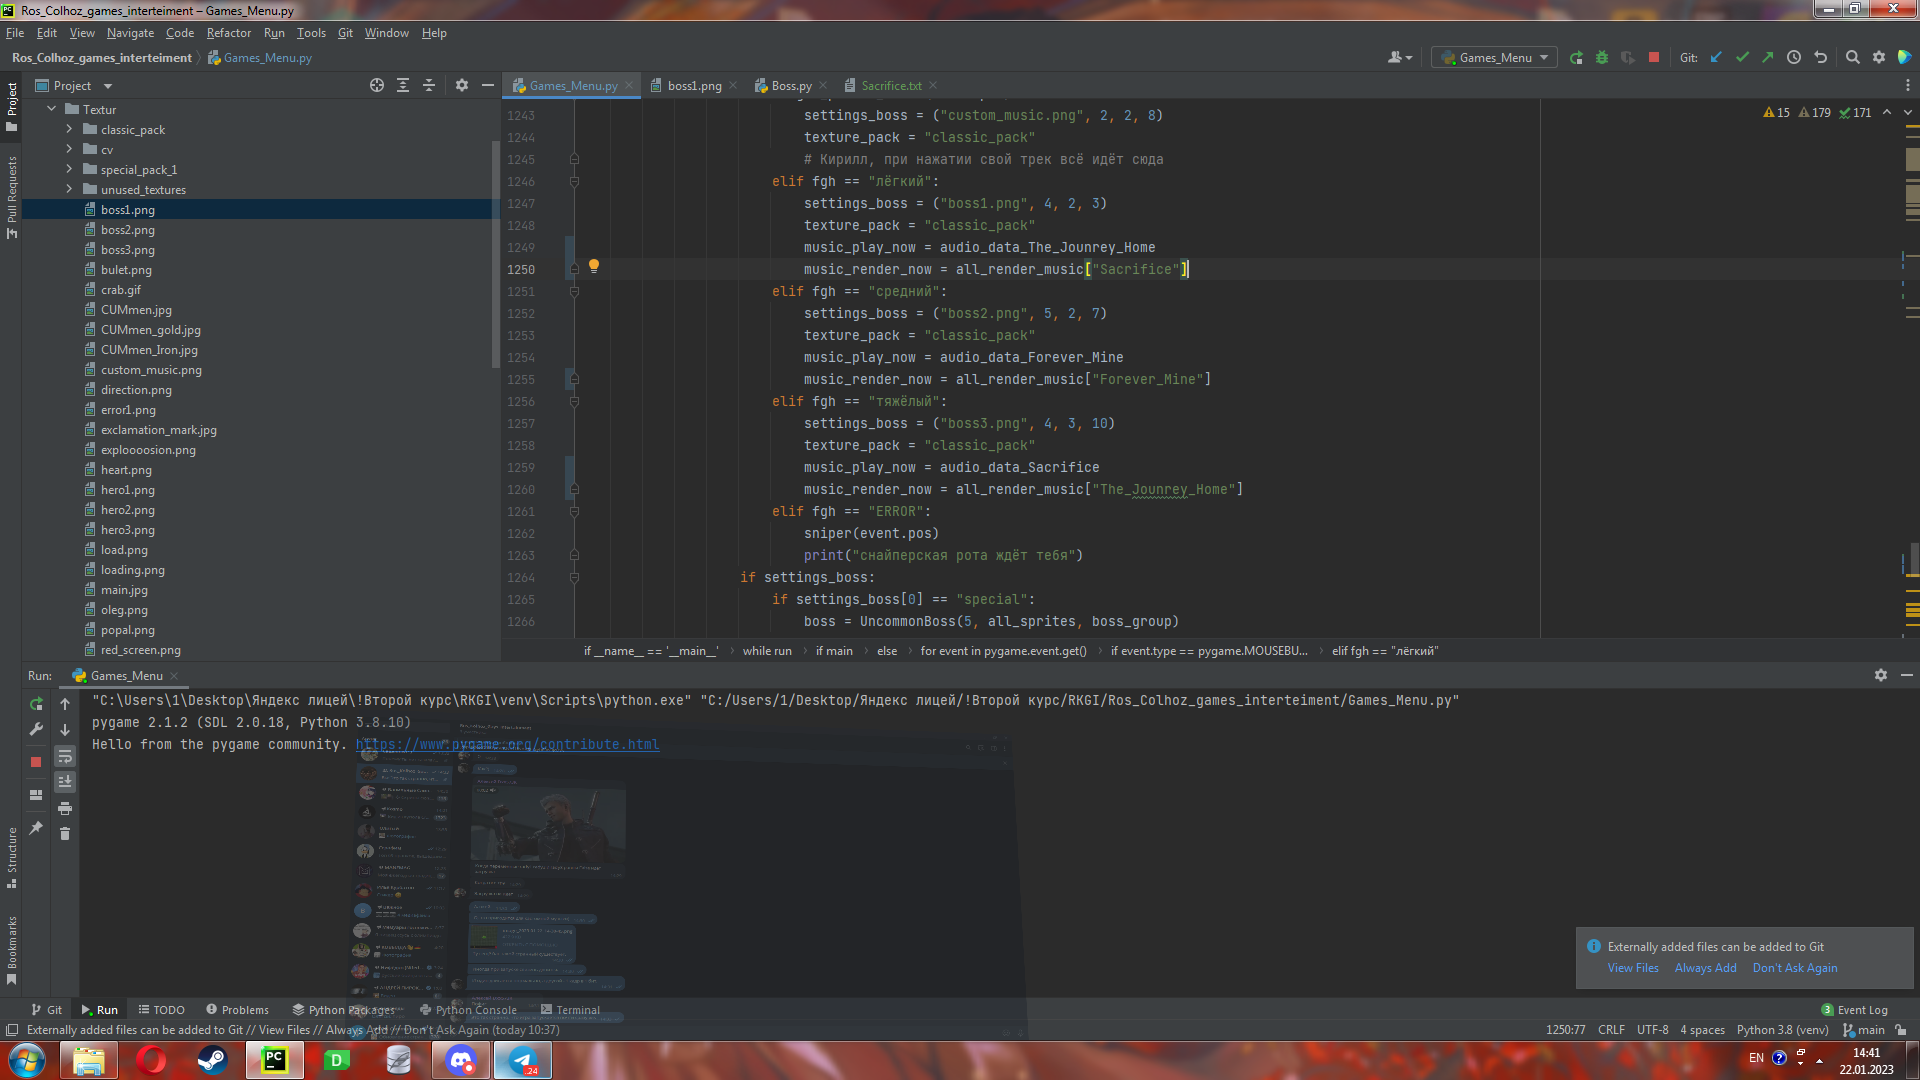
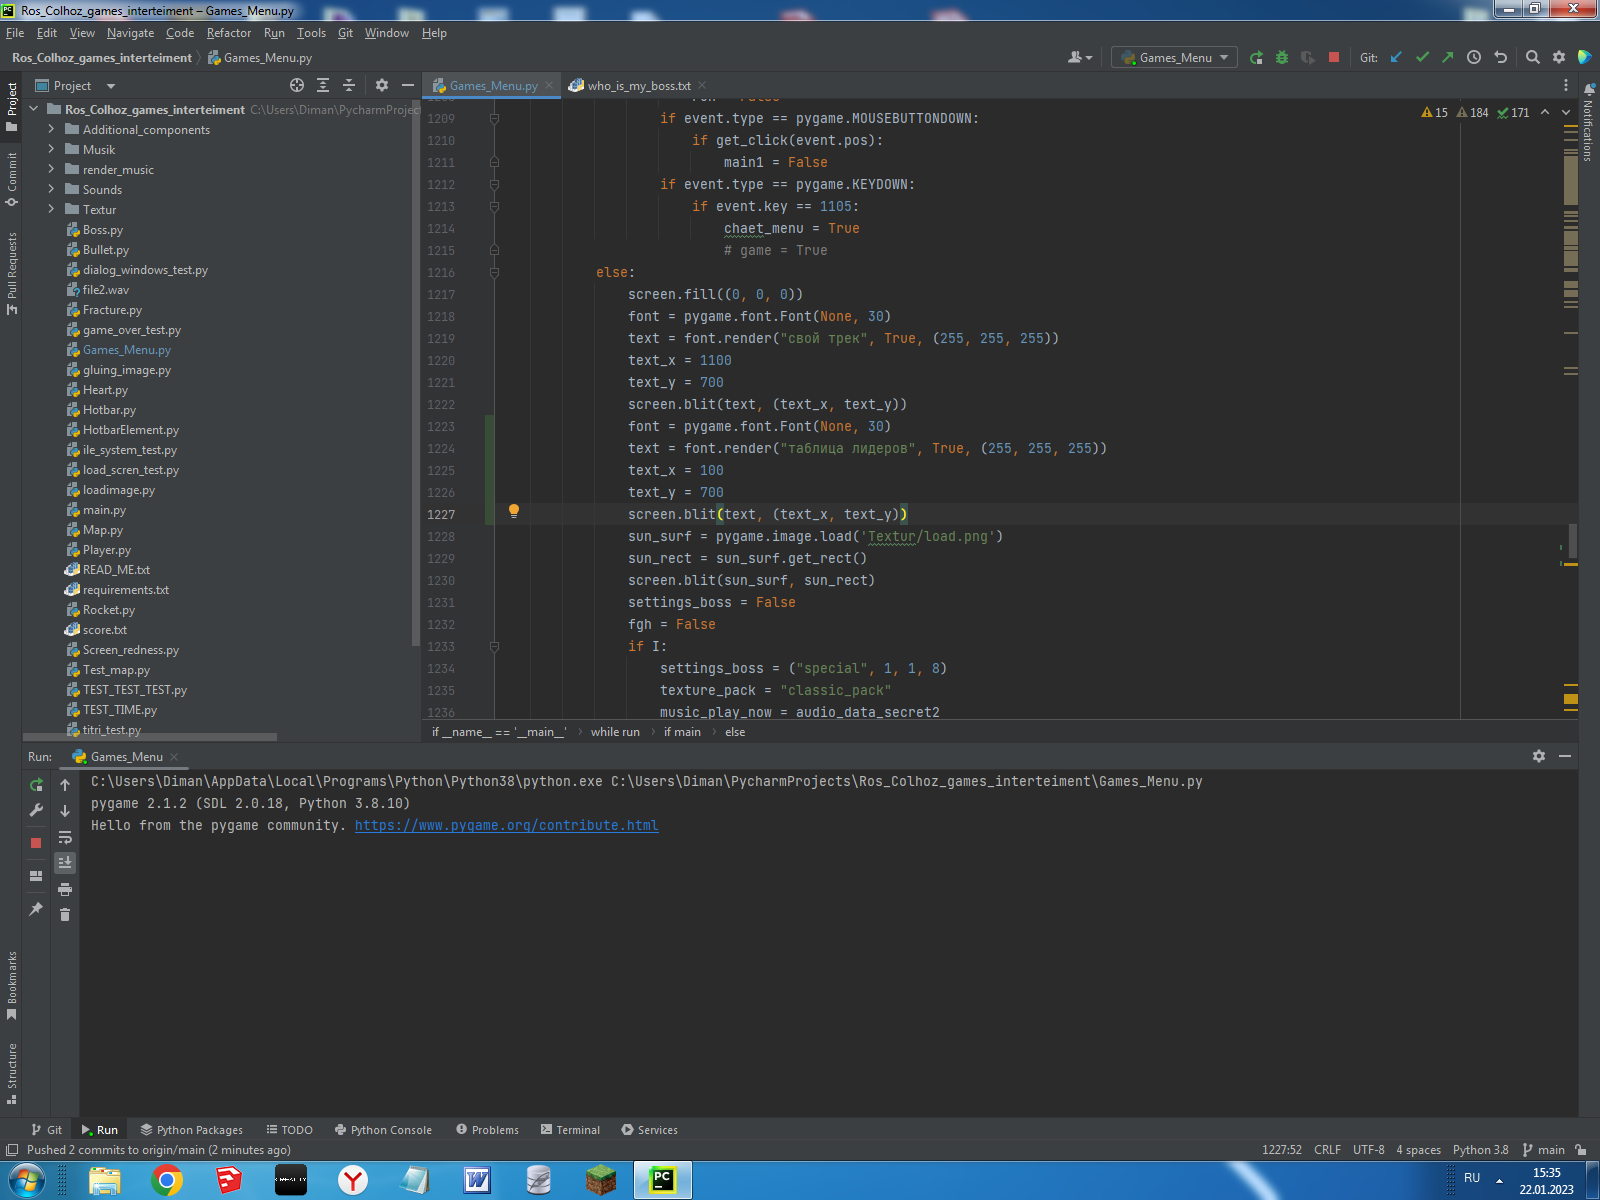
update 0.4.0.5.6 таблица лидеров кнопка

diff --git a/Games_Menu.py b/Games_Menu.py
@@ -491,6 +491,12 @@ def get_add_result(pos):
     return False
 
 
+def get_tabl_lider(pos):
+    if 277 > pos[0] > 93 and 719 > pos[1] > 695:
+        return True
+    return False
+
+
 if __name__ == '__main__':
     pygame.init()
 
@@ -1220,6 +1226,11 @@ if __name__ == '__main__':
                 text_x = 1100
                 text_y = 700
                 screen.blit(text, (text_x, text_y))
+                font = pygame.font.Font(None, 30)
+                text = font.render("таблица лидеров", True, (255, 255, 255))
+                text_x = 100
+                text_y = 700
+                screen.blit(text, (text_x, text_y))
                 sun_surf = pygame.image.load('Textur/load.png')
                 sun_rect = sun_surf.get_rect()
                 screen.blit(sun_surf, sun_rect)
@@ -1244,6 +1255,8 @@ if __name__ == '__main__':
                             settings_boss = ("custom_music.png", 2, 2, 8)
                             texture_pack = "classic_pack"
                             # Кирилл, при нажатии свой трек всё идёт сюда
+                        elif get_tabl_lider(event.pos):
+                            continue
                         elif fgh == "лёгкий":
                             settings_boss = ("boss1.png", 4, 2, 3)
                             texture_pack = "classic_pack"
@@ -1262,6 +1275,7 @@ if __name__ == '__main__':
                         elif fgh == "ERROR":
                             sniper(event.pos)
                             print("снайперская рота ждёт тебя")
+                        print(event.pos)
                     if settings_boss:
                         if settings_boss[0] == "special":
                             boss = UncommonBoss(5, all_sprites, boss_group)
